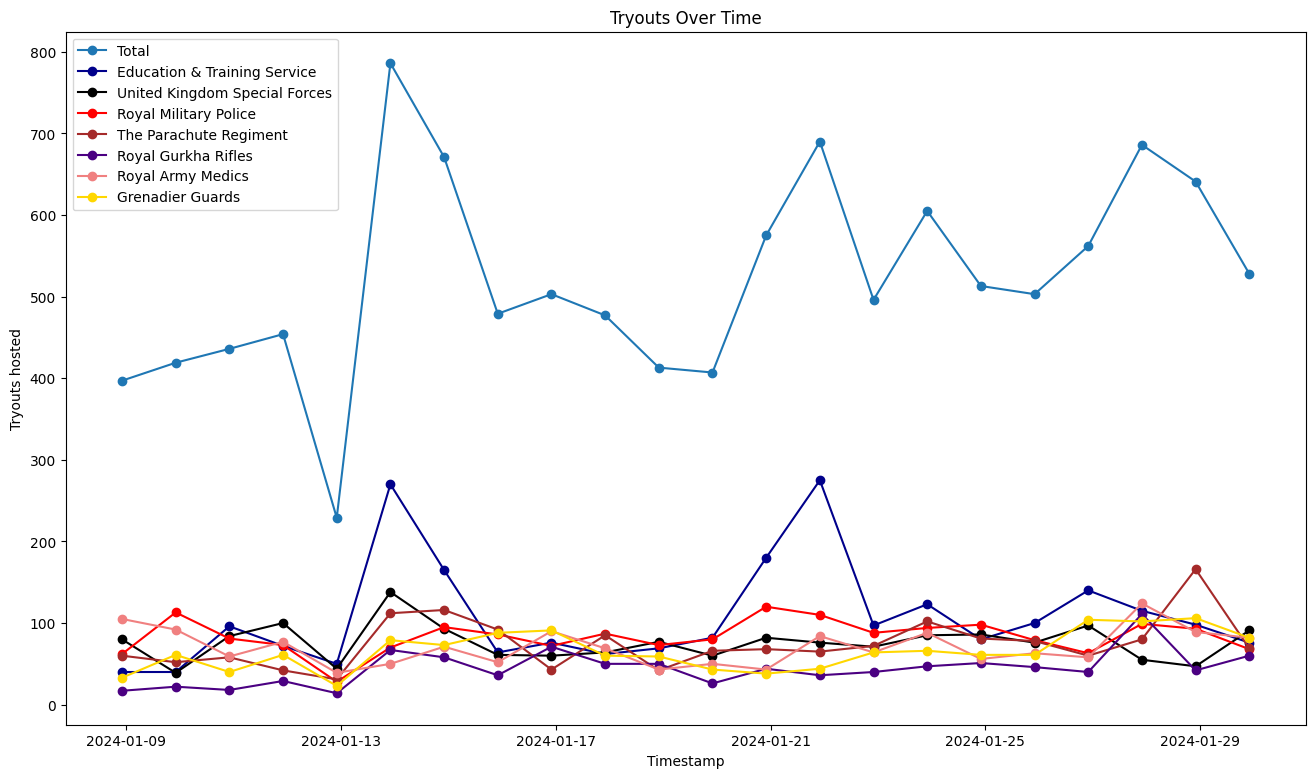
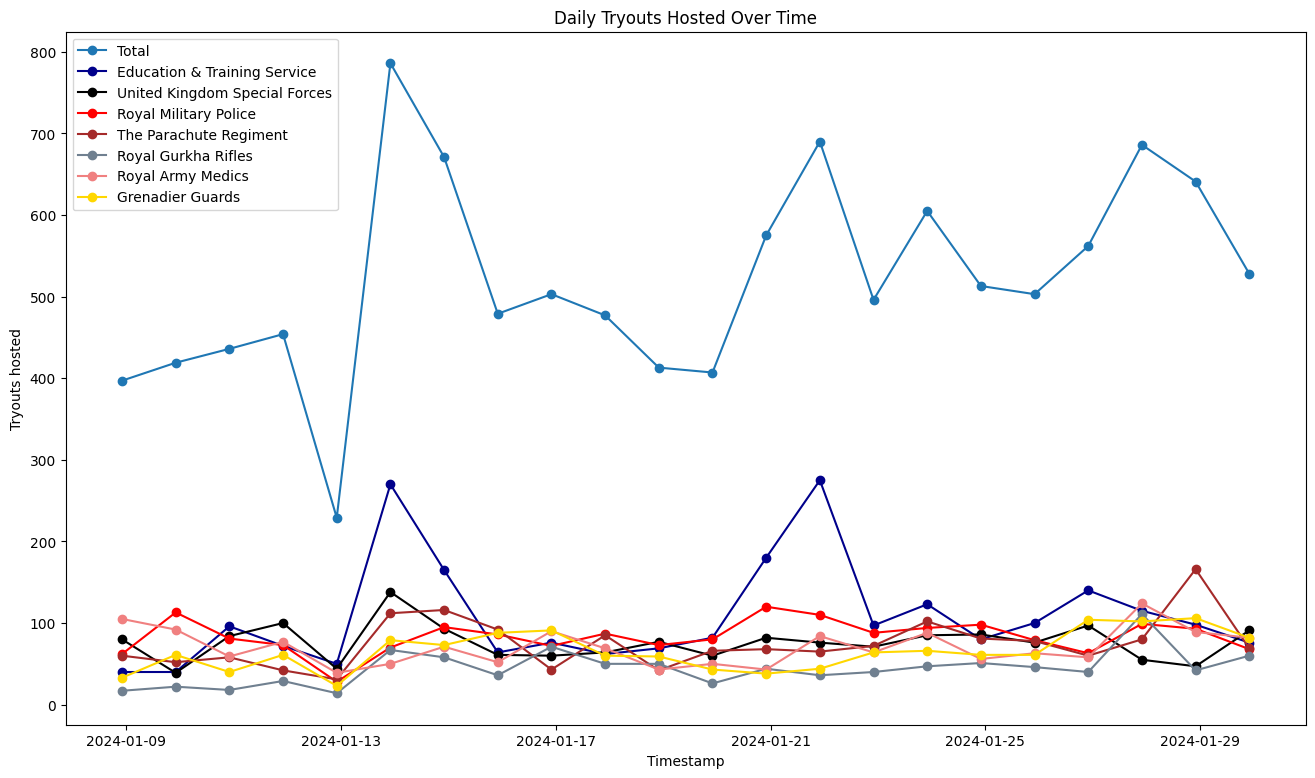
variable name fixes

diff --git a/tryouts/src/main.py b/tryouts/src/main.py
@@ -31,30 +31,29 @@ def createObject(data):
 def plotLineGraph(tryouts, path=None):
     timeStamps = [datetime.fromisoformat(day["timeStamp"]) for tryout in tryouts for day in tryout]
     totalAmount = [day["tryouts"]["total"] for tryout in tryouts for day in tryout]
-    GrenadierGuardsAmount = [day["tryouts"]["Grenadier Guards"] for tryout in tryouts for day in tryout]
-    RoyalMilitaryPoliceAmount = [day["tryouts"]["Royal Military Police"] for tryout in tryouts for day in tryout]
-    EducationAndTrainingServiceAmount = [day["tryouts"]["Education & Training Service"] for tryout in tryouts for day in tryout]
-    UnitedKingdomSpecialForcesAmount = [day["tryouts"]["United Kingdom Special Forces"] for tryout in tryouts for day in tryout]
-    TheParachuteRegimentAmount = [day["tryouts"]["The Parachute Regiment"] for tryout in tryouts for day in tryout]
-    RoyalGurkhaRiflesAmount = [day["tryouts"]["Royal Gurkha Rifles"] for tryout in tryouts for day in tryout]
-    RoyalArmyMedicsAmount = [day["tryouts"]["Royal Army Medics"] for tryout in tryouts for day in tryout]
+    grenadierGuards = [day["tryouts"]["Grenadier Guards"] for tryout in tryouts for day in tryout]
+    royalMilitaryPolice = [day["tryouts"]["Royal Military Police"] for tryout in tryouts for day in tryout]
+    educationAndTrainingService = [day["tryouts"]["Education & Training Service"] for tryout in tryouts for day in tryout]
+    unitedKingdomSpecialForces = [day["tryouts"]["United Kingdom Special Forces"] for tryout in tryouts for day in tryout]
+    theParachuteRegiment = [day["tryouts"]["The Parachute Regiment"] for tryout in tryouts for day in tryout]
+    royalGurkhaRifles = [day["tryouts"]["Royal Gurkha Rifles"] for tryout in tryouts for day in tryout]
+    royalArmyMedics = [day["tryouts"]["Royal Army Medics"] for tryout in tryouts for day in tryout]
 
     plt.figure(figsize=(16, 9))
 
     plt.plot(timeStamps, totalAmount, marker='o', label='Total')
     # colours may not match regiments
-    plt.plot(timeStamps, EducationAndTrainingServiceAmount, marker='o', label='Education & Training Service', color='darkblue')
-    plt.plot(timeStamps, UnitedKingdomSpecialForcesAmount, marker='o', label='United Kingdom Special Forces', color='black')
-    plt.plot(timeStamps, RoyalMilitaryPoliceAmount, marker='o', label='Royal Military Police', color='red')
-    plt.plot(timeStamps, TheParachuteRegimentAmount, marker='o', label='The Parachute Regiment', color='brown')
-    plt.plot(timeStamps, RoyalGurkhaRiflesAmount, marker='o', label='Royal Gurkha Rifles', color='indigo')
-    plt.plot(timeStamps, RoyalArmyMedicsAmount, marker='o', label='Royal Army Medics', color='lightcoral')
-    plt.plot(timeStamps, GrenadierGuardsAmount, marker='o', label='Grenadier Guards', color='gold')
+    plt.plot(timeStamps, educationAndTrainingService, marker='o', label='Education & Training Service', color='darkblue')
+    plt.plot(timeStamps, unitedKingdomSpecialForces, marker='o', label='United Kingdom Special Forces', color='black')
+    plt.plot(timeStamps, royalMilitaryPolice, marker='o', label='Royal Military Police', color='red')
+    plt.plot(timeStamps, theParachuteRegiment, marker='o', label='The Parachute Regiment', color='brown')
+    plt.plot(timeStamps, royalGurkhaRifles, marker='o', label='Royal Gurkha Rifles', color='slateGrey')
+    plt.plot(timeStamps, royalArmyMedics, marker='o', label='Royal Army Medics', color='lightcoral')
+    plt.plot(timeStamps, grenadierGuards, marker='o', label='Grenadier Guards', color='gold')
 
     plt.xlabel('Timestamp')
     plt.ylabel('Tryouts hosted')
     plt.title('Daily Tryouts Hosted Over Time')
-    # plt.xticks(rotation=45)
     plt.legend()
 
     if path:
